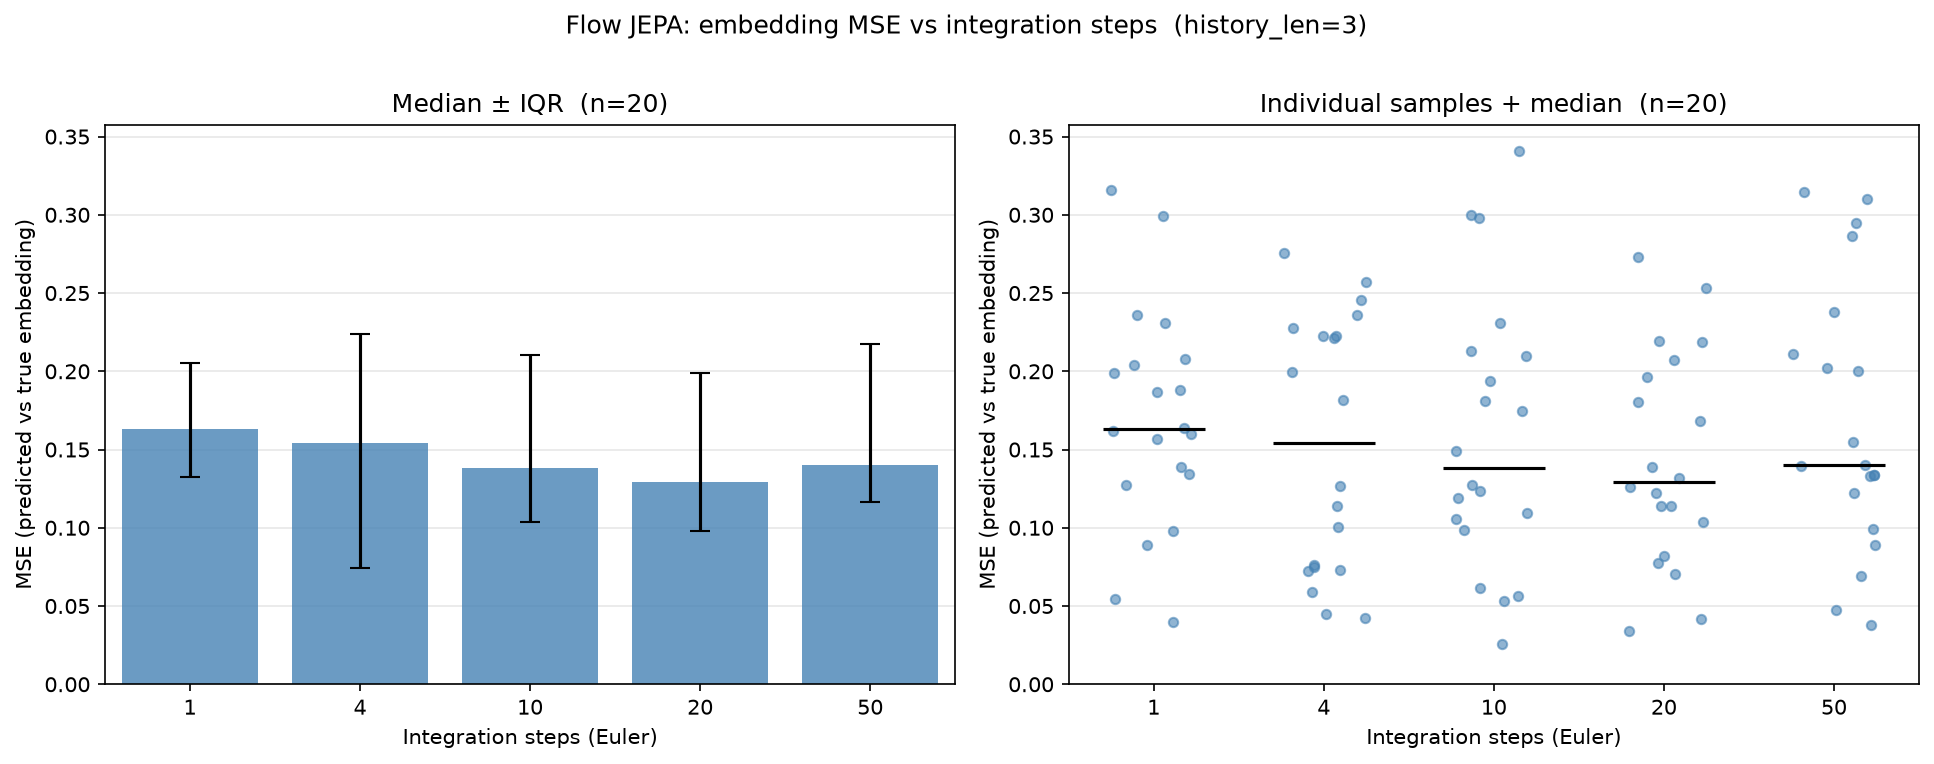
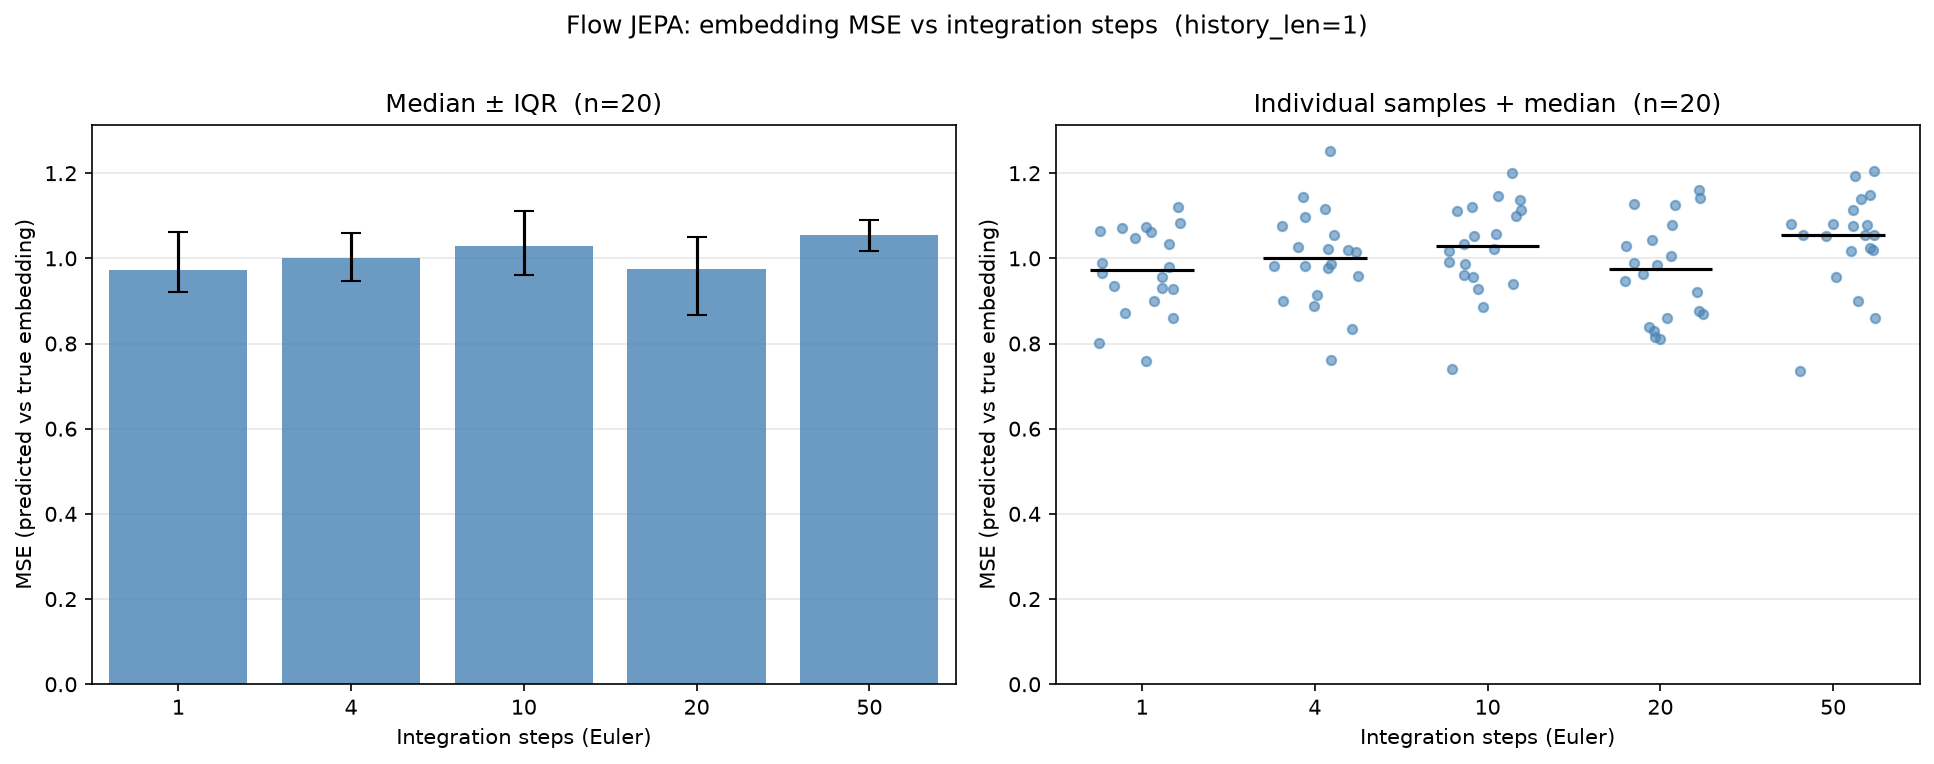
WIP

diff --git a/train_encoder_decoder.py b/train_encoder_decoder.py
@@ -1,0 +1,210 @@
+"""Train a CLS-token decoder on top of a frozen JEPA encoder (encoder-only, no predictor)."""
+
+import os
+from functools import partial
+from pathlib import Path
+
+import hydra
+import lightning as pl
+import stable_pretraining as spt
+import stable_worldmodel as swm
+import torch
+import torch.nn.functional as F
+from lightning.pytorch.loggers import WandbLogger
+from omegaconf import OmegaConf, open_dict
+
+import lewm  # noqa: F401 — registers FlowJEPA so load_pretrained can reconstruct it
+from lewm import get_img_preprocessor, get_column_normalizer, SaveCkptCallback, GridSaveCallback
+from lewm.decoder import CLSDecoder
+
+
+def compute_grid_predictions(model, batch, cfg):
+    """Decode the encoder's own [CLS] embedding for a single frame and compare
+    it against that same frame's pixels, for the grid-visualization callback."""
+
+    ctx_len = cfg.history_size
+    batch["action"] = torch.nan_to_num(batch["action"], 0.0)
+
+    with torch.no_grad():
+        output = model.jepa.encode(batch)
+        emb = output["emb"][:, ctx_len - 1]  # (B, D)
+        recon = model.decoder(emb)
+
+    tgt_pixels = batch["pixels"][:, ctx_len - 1].float()
+    return {"target": tgt_pixels * 2.0 - 1.0, "recon": recon}
+
+
+def decoder_forward(self, batch, stage, cfg):
+    """Decode the encoder's [CLS] embedding and compare to its own frame."""
+
+    ctx_len = cfg.history_size
+
+    batch["action"] = torch.nan_to_num(batch["action"], 0.0)
+
+    with torch.no_grad():
+        output = self.model.jepa.encode(batch)
+        emb = output["emb"]  # (B, T, D)
+
+    cls_emb = emb[:, ctx_len - 1]  # (B, D)
+    recon = self.model.decoder(cls_emb)   # (B, 3, H, W)
+
+    # Target: the same frame the [CLS] embedding was encoded from
+    tgt_pixels = batch["pixels"][:, ctx_len - 1].float()  # (B, C, H, W)
+    target = tgt_pixels * 2.0 - 1.0
+
+    loss = F.mse_loss(recon, target)
+    output_dict = {"loss": loss}
+
+    self.log_dict({f"{stage}/{k}": v.detach() for k, v in output_dict.items()}, on_step=True, sync_dist=True)
+
+    if stage == "val" and cfg.wandb.enabled:
+        _log_images(self, tgt_pixels, recon, stage)
+
+    return output_dict
+
+
+def _log_images(module, target_pixels, recon, stage, n=4):
+    """Log a grid of target vs. reconstructed images to wandb."""
+    try:
+        import wandb
+    except ImportError:
+        return
+
+    n = min(n, target_pixels.size(0))
+    target_imgs = ((target_pixels[:n].detach().cpu().float() * 0.5 + 0.5).clamp(0, 1) * 255).byte()
+    recon_imgs  = ((recon[:n].detach().cpu().float() * 0.5 + 0.5).clamp(0, 1) * 255).byte()
+
+    log_imgs = []
+    for t, r in zip(target_imgs, recon_imgs):
+        log_imgs.append(wandb.Image(t.permute(1, 2, 0).numpy(), caption="target"))
+        log_imgs.append(wandb.Image(r.permute(1, 2, 0).numpy(), caption="recon"))
+
+    wandb.log({f"{stage}/reconstructions": log_imgs})
+
+
+class DecoderModule(torch.nn.Module):
+    """Pairs a frozen JEPA backbone (encoder only) with a trainable decoder."""
+
+    def __init__(self, jepa, decoder):
+        super().__init__()
+        self.jepa = jepa
+        self.decoder = decoder
+
+        for p in self.jepa.parameters():
+            p.requires_grad_(False)
+
+
[email redacted](version_base=None, config_path="./config/train", config_name="encoder_decoder")
+def run(cfg):
+    #########################
+    ##       dataset       ##
+    #########################
+
+    dataset_cfg = OmegaConf.to_container(cfg.data.dataset, resolve=True)
+    dataset_name = dataset_cfg.pop("name")
+    cache_dir = os.environ.get("LOCAL_DATASET_DIR", None)
+    dataset = swm.data.load_dataset(
+        dataset_name, transform=None, cache_dir=cache_dir, **dataset_cfg
+    )
+    transforms = [get_img_preprocessor(source="pixels", target="pixels", img_size=cfg.img_size)]
+
+    with open_dict(cfg):
+        for col in cfg.data.dataset.keys_to_load:
+            if col.startswith("pixels"):
+                continue
+            normalizer = get_column_normalizer(dataset, col, col)
+            transforms.append(normalizer)
+
+    transform = spt.data.transforms.Compose(*transforms)
+    dataset.transform = transform
+
+    rnd_gen = torch.Generator().manual_seed(cfg.seed)
+    train_set, val_set = spt.data.random_split(
+        dataset, lengths=[cfg.train_split, 1 - cfg.train_split], generator=rnd_gen
+    )
+
+    train = torch.utils.data.DataLoader(train_set, **cfg.loader, shuffle=True, drop_last=True, generator=rnd_gen)
+    val   = torch.utils.data.DataLoader(val_set,   **cfg.loader, shuffle=False, drop_last=False)
+
+    sample_gen = torch.Generator().manual_seed(cfg.seed)
+    fixed_indices = torch.randperm(len(val_set), generator=sample_gen)[:3].tolist()
+    fixed_samples = [val_set[i] for i in fixed_indices]
+    fixed_batch = torch.utils.data.default_collate(fixed_samples)
+
+    ##############################
+    ##       model / optim      ##
+    ##############################
+
+    backbone = swm.wm.utils.load_pretrained(cfg.policy)
+
+    decoder = CLSDecoder(**cfg.decoder)
+    model = DecoderModule(jepa=backbone, decoder=decoder)
+
+    optimizers = {
+        "decoder_opt": {
+            "modules": "model.decoder",
+            "optimizer": dict(cfg.optimizer),
+            "scheduler": {"type": "LinearWarmupCosineAnnealingLR"},
+            "interval": "epoch",
+        },
+    }
+
+    data_module = spt.data.DataModule(train=train, val=val)
+    lit_module = spt.Module(
+        model=model,
+        forward=partial(decoder_forward, cfg=cfg),
+        optim=optimizers,
+    )
+
+    ##########################
+    ##       training       ##
+    ##########################
+
+    run_id = cfg.get("subdir") or ""
+    run_dir = Path(swm.data.utils.get_cache_dir(sub_folder="checkpoints"), run_id)
+
+    logger = None
+    if cfg.wandb.enabled:
+        logger = WandbLogger(**cfg.wandb.config)
+        logger.log_hyperparams(OmegaConf.to_container(cfg))
+
+    run_dir.mkdir(parents=True, exist_ok=True)
+    with open(run_dir / "config.yaml", "w") as f:
+        OmegaConf.save(cfg, f)
+
+    ckpt_callback = SaveCkptCallback(
+        run_name=cfg.output_model_name,
+        cfg=cfg.decoder,
+        epoch_interval=cfg.checkpoint_epoch_interval,
+    )
+
+    grid_callback = GridSaveCallback(
+        fixed_batch=fixed_batch,
+        cfg=cfg,
+        predict_fn=compute_grid_predictions,
+        output_dir=run_dir,
+        epoch_interval=cfg.grid_save.epoch_interval,
+        log_wandb=cfg.wandb.enabled,
+    )
+
+    trainer = pl.Trainer(
+        **cfg.trainer,
+        callbacks=[ckpt_callback, grid_callback],
+        num_sanity_val_steps=1,
+        logger=logger,
+        enable_checkpointing=True,
+    )
+
+    ckpt_path = run_dir / f"{cfg.output_model_name}_weights.ckpt"
+    manager = spt.Manager(
+        trainer=trainer,
+        module=lit_module,
+        data=data_module,
+        ckpt_path=ckpt_path if ckpt_path.exists() else None,
+    )
+
+    manager()
+
+
+if __name__ == "__main__":
+    run()

diff --git a/src/lewm/grid_viz.py b/src/lewm/grid_viz.py
@@ -10,7 +10,7 @@ def _to_imshow(x):
 
 
 class GridSaveCallback(Callback):
-    """Saves a 3x4 PNG grid (rows=fixed val samples, cols=[target, h=1, h=2, h=3])
+    """Saves a PNG grid (rows=fixed val samples, cols=[target, ...predict_fn's other keys])
     every epoch_interval epochs."""
 
     def __init__(self, fixed_batch, cfg, predict_fn, output_dir, epoch_interval: int = 1, log_wandb: bool = False):
@@ -50,11 +50,15 @@ class GridSaveCallback(Callback):
         plt.close(fig)
 
     def _build_figure(self, preds):
-        col_titles = ["target", "history=1", "history=2", "history=3"]
-        cols = [preds["target"], preds[1], preds[2], preds[3]]
+        other_keys = [k for k in preds if k != "target"]
+        col_titles = ["target"] + [f"history={k}" if isinstance(k, int) else str(k) for k in other_keys]
+        cols = [preds["target"]] + [preds[k] for k in other_keys]
+        n_cols = len(cols)
         n_rows = cols[0].size(0)
 
-        fig, axes = plt.subplots(n_rows, 4, figsize=(4 * 2.5, n_rows * 2.5))
+        fig, axes = plt.subplots(n_rows, n_cols, figsize=(n_cols * 2.5, n_rows * 2.5))
+        if n_rows == 1:
+            axes = axes.reshape(1, n_cols)
         for row in range(n_rows):
             for col_idx, col in enumerate(cols):
                 ax = axes[row, col_idx]

diff --git a/README.md b/README.md
@@ -86,21 +86,27 @@ For baseline scripts, see the stable-worldmodel [scripts](https://github.com/gal
 
 ## Decoder (Visualization)
 
-To visualize what the predictor's latent representation looks like as an image, train a lightweight decoder on top of a frozen backbone. The decoder is trained to map the predictor's `z_{t+1}` embedding back to pixels, supervised against the actual next frame.
+To visualize what the latent representation looks like as an image, train a lightweight decoder on top of a frozen backbone. Two variants are available:
+
+- `train_predictor_decoder.py` — decodes the predictor's `z_{t+1}` embedding back to pixels, supervised against the actual next frame.
+- `train_encoder_decoder.py` — decodes the encoder's own `[CLS]` embedding back to pixels, supervised against the frame it was encoded from. This is the diagnostic decoder described in the paper, used to visualize what visual information is retained in the `[CLS]` representation.
 
 ```bash
 # Standard LeWM
-python train_decoder.py data=pusht backbone_checkpoint=/path/to/lewm_weights.pt
+python train_predictor_decoder.py data=pusht backbone_checkpoint=/path/to/lewm_weights.pt
 
 # Flow-matching LeWM
-python train_decoder.py --config-name=decoder_fm data=pusht backbone_checkpoint=/path/to/lewm_fm_weights.pt
+python train_predictor_decoder.py --config-name=decoder_fm data=pusht backbone_checkpoint=/path/to/lewm_fm_weights.pt
+
+# Encoder-only [CLS] decoder
+python train_encoder_decoder.py data=pusht backbone_checkpoint=/path/to/lewm_weights.pt
 ```
 
 Set `backbone_checkpoint` to the `_weight.ckpt` (state dict) file for your environment. The encoder and predictor are frozen throughout; only the decoder is trained.
 
 Enable wandb to log target vs. reconstructed image grids at each validation step:
 ```bash
-python train_decoder.py data=pusht backbone_checkpoint=... wandb.enabled=true
+python train_predictor_decoder.py data=pusht backbone_checkpoint=... wandb.enabled=true
 ```
 
 ## Planning